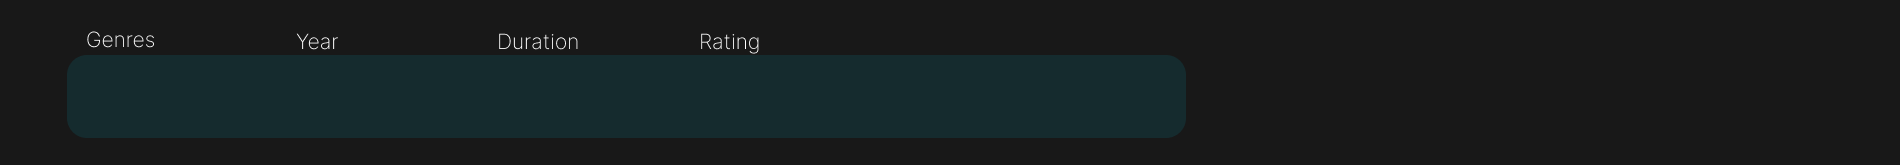
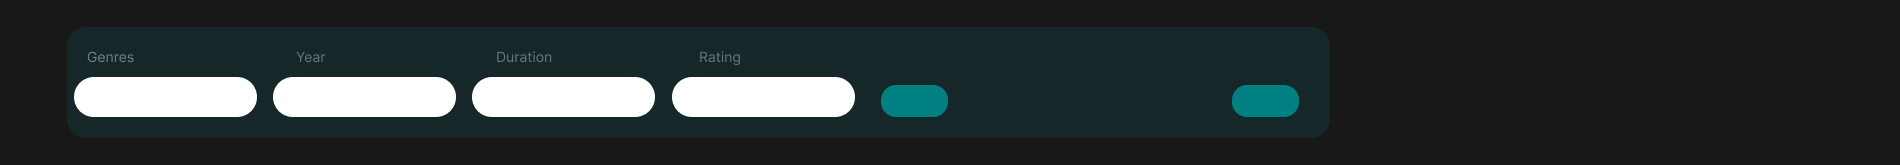
commit

diff --git a/WinFormsApp1/Home.cs b/WinFormsApp1/Home.cs
@@ -1152,8 +1152,11 @@ namespace WinFormsApp1
 
         private void filter_Click(object sender, EventArgs e)
         {
+            PictureBox iconPicture2 = new PictureBox();
+            panel4.Controls.Add(iconPicture2);
+
             panel1.BackColor = Color.FromArgb(24, 24, 24);
-            roundedPanel1.Visible = false;
+           // roundedPanel1.Visible = false;
             widePictureBox.Visible = false;
             sidepanel.Visible = false;
             label7.Visible = false;
@@ -1168,13 +1171,13 @@ namespace WinFormsApp1
             label3.Location = new Point(115, 325);
             iconPictureBox.Location = new Point(90, 327);
             //label6.Location = new Point(1420, 320);
-           // iconPictureBox2.Location = new Point(label6.Left - 20, 327); // gunra lable
+            // iconPictureBox2.Location = new Point(label6.Left - 20, 327); // gunra lable
 
             // Create and configure combo boxes
-            ComboBox genreComboBox = new ComboBox();
-            ComboBox releaseDateComboBox = new ComboBox();
-            ComboBox durationComboBox = new ComboBox();
-            ComboBox ratingComboBox = new ComboBox();
+            RoundedComboBox genreComboBox = new RoundedComboBox();
+            RoundedComboBox releaseDateComboBox = new RoundedComboBox();
+            RoundedComboBox durationComboBox = new RoundedComboBox();
+            RoundedComboBox ratingComboBox = new RoundedComboBox();
             RadioButton filter = new RadioButton();
             RadioButton back = new RadioButton();
 
@@ -1186,23 +1189,39 @@ namespace WinFormsApp1
             filter.Width = 100;
             back.Width = 100;
 
+            System.Drawing.Font font = new System.Drawing.Font("Segoe UI", 18F);
+
+            genreComboBox.Font = font;
+            releaseDateComboBox.Font = font;
+            durationComboBox.Font = font;
+            ratingComboBox.Font = font;
+       
             // Position combo boxes
-            genreComboBox.Location = new Point(100, 100);
-            releaseDateComboBox.Location = new Point(300, 100);
-            durationComboBox.Location = new Point(500, 100);
-            ratingComboBox.Location = new Point(700, 100);
-            filter.Location = new Point(900, 100);
-            back.Location = new Point(1050, 100);
+            genreComboBox.Location = new Point(90, 90);
+            releaseDateComboBox.Location = new Point(290, 90);
+            durationComboBox.Location = new Point(490,90);
+            ratingComboBox.Location = new Point(690, 90);
+            filter.Location = new Point(890, 100);
+            back.Location = new Point(1240, 100);
 
             PictureBox iconPicture = new PictureBox();
             iconPicture.SizeMode = PictureBoxSizeMode.Zoom;
             iconPicture.Image = System.Drawing.Image.FromFile("C:\\Users\\enkud\\Desktop\\Cinema\\back_image\\filter.png");
             iconPicture.Name = "wide_panel";
             iconPicture.Size = new Size(1900, 189);
-            iconPicture.Location = new Point(0, 100);
+            iconPicture.Location = new Point(0, 120);
             iconPicture.TabIndex = 13;
-            
+
+            iconPicture2.SizeMode = PictureBoxSizeMode.Zoom;
+            iconPicture2.Image = System.Drawing.Image.FromFile("C:\\Users\\enkud\\Desktop\\Cinema\\back_image\\payment.png");
+            iconPicture2.Name = "wide_panel";
+            iconPicture2.Size = new Size(480, 854);
+            iconPicture2.Location = new Point(1375, 160);
+            iconPicture2.TabIndex = 13;
+            iconPicture2.BringToFront();
+
             // Add combo boxes to the form
+       
             iconPicture.Controls.Add(genreComboBox);
             iconPicture.Controls.Add(releaseDateComboBox);
             iconPicture.Controls.Add(durationComboBox);
@@ -1210,7 +1229,6 @@ namespace WinFormsApp1
             iconPicture.Controls.Add(filter);
             iconPicture.Controls.Add(back);
             panel4.Controls.Add(iconPicture);
-          
 
             filter.BackgroundImageLayout = ImageLayout.None;
             filter.Cursor = Cursors.Hand;

diff --git a/WinFormsApp1/RoundedComboBox.cs b/WinFormsApp1/RoundedComboBox.cs
@@ -1,0 +1,82 @@
+using System;
+using System.Drawing;
+using System.Drawing.Drawing2D;
+using System.Windows.Forms;
+
+namespace WinFormsApp
+{
+    public class RoundedComboBox : ComboBox
+    {
+        // Radius for rounded corners
+        public int CornerRadius { get; set; } = 11;
+
+        // Default back color
+        public Color DefaultBackColor { get; set; } = SystemColors.Control;
+
+        // Default fore color
+        public Color DefaultForeColor { get; set; } = SystemColors.ControlText;
+
+        // Color for the edge
+        public Color EdgeColor { get; set; } = Color.Black;
+
+        public RoundedComboBox()
+        {
+            DrawMode = DrawMode.OwnerDrawFixed;
+            DropDownStyle = ComboBoxStyle.DropDownList;
+        }
+
+        protected override void OnDrawItem(DrawItemEventArgs e)
+        {
+            base.OnDrawItem(e);
+
+            if (e.Index < 0)
+                return;
+
+            e.DrawBackground();
+
+            // Draw the text
+            string text = Items[e.Index].ToString();
+            using (SolidBrush brush = new SolidBrush(DefaultForeColor))
+            {
+                e.Graphics.DrawString(text, Font, brush, e.Bounds);
+            }
+
+            e.DrawFocusRectangle();
+        }
+
+        protected override void OnPaint(PaintEventArgs e)
+        {
+            base.OnPaint(e);
+
+            // Create a graphics path to define the rounded rectangle
+            GraphicsPath path = new GraphicsPath();
+            Rectangle bounds = new Rectangle(ClientRectangle.X, ClientRectangle.Y, ClientRectangle.Width - 1, ClientRectangle.Height - 1); // Adjusted bounds
+            int radius = CornerRadius * 2;
+
+            // Add arcs to the path for the corners
+            path.AddArc(bounds.X, bounds.Y, radius, radius, 180, 90); // Top-left corner
+            path.AddArc(bounds.Right - radius, bounds.Y, radius, radius, 270, 90); // Top-right corner
+            path.AddArc(bounds.Right - radius, bounds.Bottom - radius, radius, radius, 0, 90); // Bottom-right corner
+            path.AddArc(bounds.X, bounds.Bottom - radius, radius, radius, 90, 90); // Bottom-left corner
+            path.CloseFigure();
+
+            // Draw the rounded rectangle
+            using (Pen borderPen = new Pen(EdgeColor, 3))
+            {
+                e.Graphics.DrawPath(borderPen, path);
+            }
+        }
+
+        protected override void OnBackColorChanged(EventArgs e)
+        {
+            base.OnBackColorChanged(e);
+            Invalidate();
+        }
+
+        protected override void OnForeColorChanged(EventArgs e)
+        {
+            base.OnForeColorChanged(e);
+            Invalidate();
+        }
+    }
+}
